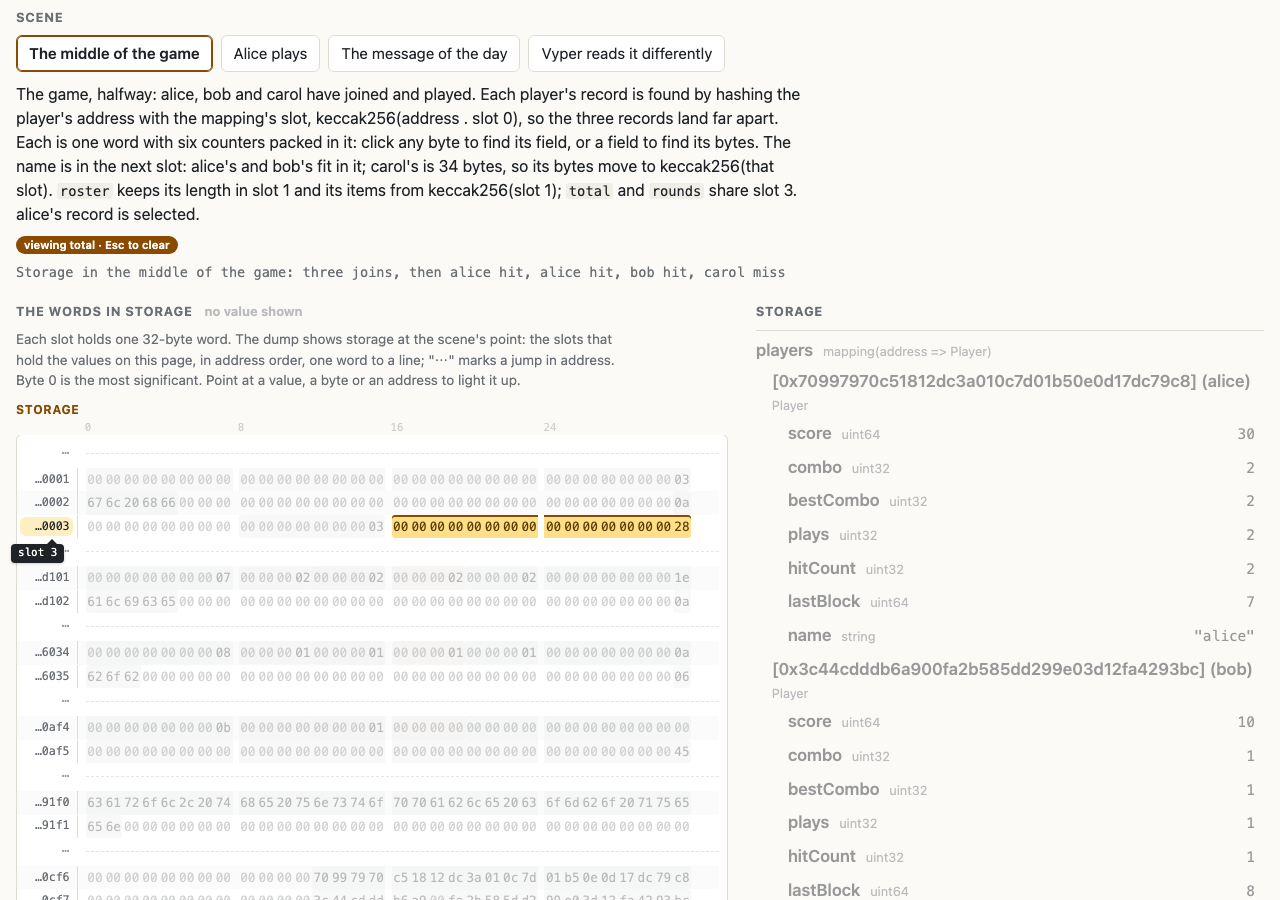
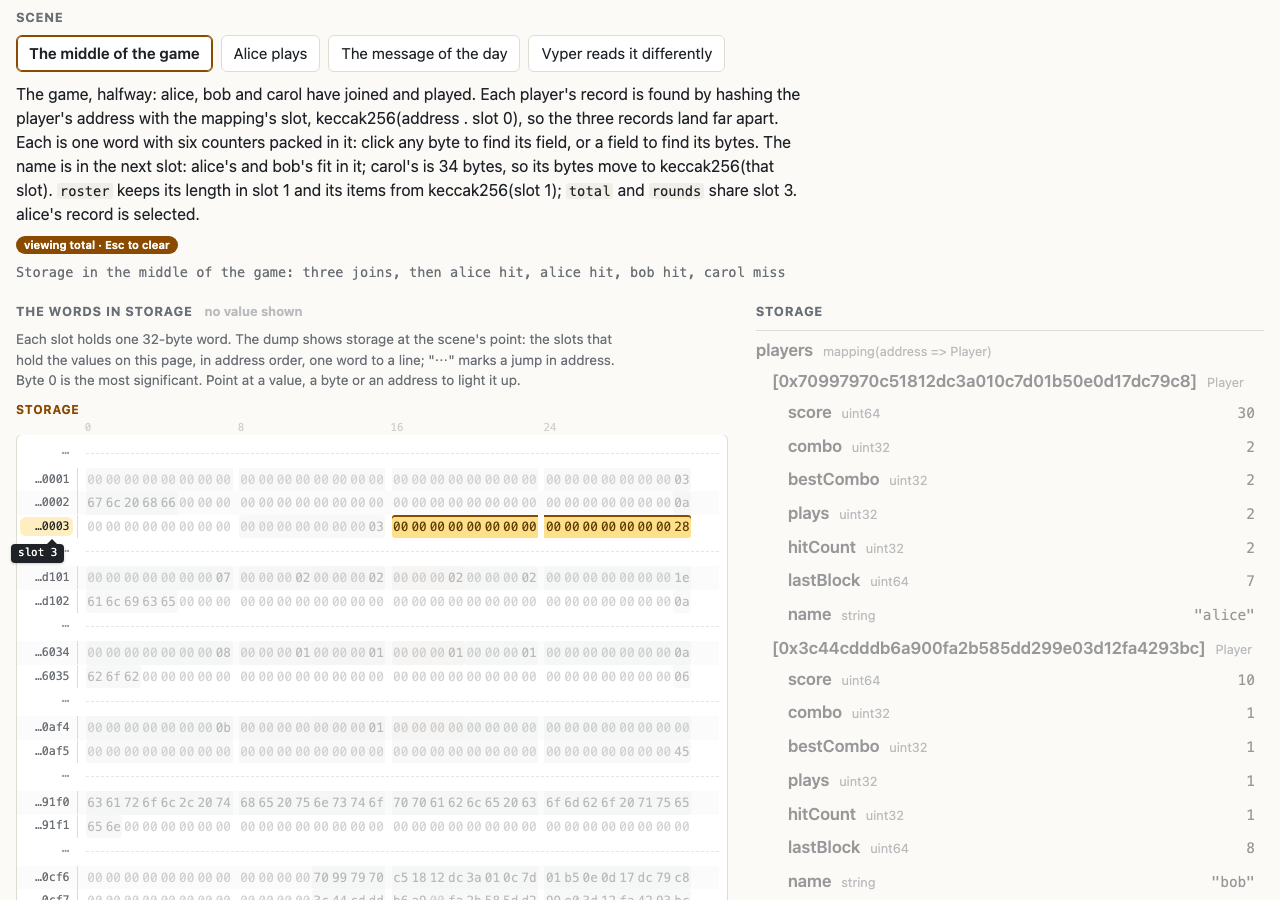
Inspector: a composite's children each in their own colour; keys without name labels

diff --git a/demos/inspector/panel.js b/demos/inspector/panel.js
@@ -495,7 +495,31 @@ export function forRow(m, path) {
   const info = own ? ownerInfo(m, own)
     : [["Value", `${code(shortKeys(path))}, ${below}`]];
   return { bytes: ownerBytes(m, ids, new Set()), rows: new Set(ids.map(
-    (id) => m.owners.get(id).row)), label, info, path };
+    (id) => m.owners.get(id).row)), label, info, path,
+    colors: childColors(m, path, ids) };
+}
+
+// The colours of a composite's immediate children: each child (a
+// mapping's entry, an array's element, a struct's member) gets one of
+// PICKS colours, in tree order, cycling; everything under a child takes
+// its colour. The composite's own bytes (an array's length, a string's
+// length byte) keep the first colour, and then the children start at the
+// second. A leaf has no children: none (one colour, as before).
+// Returns Map(tree path -> colour) or null.
+const PICKS = 7;
+function childColors(m, path, ids) {
+  const child = (row) => row.slice(path.length)
+    .match(/^(\.[^.[]+|\[[^\]]*\])/)?.[0];
+  const rows = ids.map((id) => m.owners.get(id).row);
+  const kids = [...new Set(rows.map(child).filter(Boolean))];
+  if (!kids.length) return null;
+  const start = rows.some((r) => r === path) ? 1 : 0;
+  const colors = new Map();
+  for (const r of rows) {
+    const c = child(r);
+    colors.set(r, c ? (start + kids.indexOf(c)) % PICKS : 0);
+  }
+  return colors;
 }
 
 // A run of bytes in one word, and the same positions in the other view
@@ -761,6 +785,12 @@ export function locked(h, sel) {
   return mine ? { ...sel, label: h.label, info: h.info } : null;
 }
 
+// A lit byte's or row's colour, from a composite's children (pk1 …):
+// the first colour is the plain highlight, with no class
+const pick = (el, k) => {
+  for (let j = 1; j < PICKS; j++) el.classList.toggle(`pk${j}`, k === j);
+};
+
 // Draw a highlight (or none) on the dumps and the tree. `names` names
 // the two sides, as the compare blocks label them.
 export function paint(root, tree, h, opts = {}) {
@@ -777,6 +807,9 @@ export function paint(root, tree, h, opts = {}) {
       const hl = !!h && h.bytes.has(key(side, s, i));
       const isAt = !!at && i >= at.from && i <= at.to;
       c.classList.toggle("hl", hl);
+      pick(c, hl && h.colors && (c.dataset.owners ?? "").split("|")
+        .map((id) => h.colors.get(id.replace(/#length$/, "")))
+        .find((k) => k !== undefined));
       c.classList.toggle("at", isAt);
       on ||= hl || isAt;
     }
@@ -798,8 +831,9 @@ export function paint(root, tree, h, opts = {}) {
   root.classList.toggle("active", !!h);
   tree.classList.toggle("active", !!h);
   for (const r of tree.querySelectorAll("li[data-path]")) {
-    r.firstElementChild.classList.toggle("hl",
-      !!h && h.rows.has(r.dataset.path));
+    const on = !!h && h.rows.has(r.dataset.path);
+    r.firstElementChild.classList.toggle("hl", on);
+    pick(r.firstElementChild, on && h.colors?.get(r.dataset.path));
   }
   const views = [...root.querySelectorAll(".view")].filter((v) => !v.hidden);
   // the other state's picture beside each lit run, in every mode

diff --git a/demos/inspector/style.css b/demos/inspector/style.css
@@ -797,3 +797,50 @@ main[data-single] > .cols :is(.chglegend, .legend .bchg, .intro .two) {
 .srcbox > .src { border: none; border-top: 1px solid var(--line);
   border-radius: 0 0 6px 6px; }
 .calldata { margin-top: 24px; }
+
+/* A composite's children, each in its own colour when it is lit (pk1 …;
+   the first colour is --mark). The same child has the same colour in
+   the tree and the dump; the lit cues (the line over lit bytes, the
+   lit row) stay as they are. */
+:root {
+  --pk1: #b9d8ff; --pk1-fg: #0b3a75;
+  --pk2: #bfe8c4; --pk2-fg: #14532d;
+  --pk3: #ffc7dd; --pk3-fg: #6b1238;
+  --pk4: #d9c8ff; --pk4-fg: #3b1f7a;
+  --pk5: #a8e6e0; --pk5-fg: #0f4f4a;
+  --pk6: #ffcf9e; --pk6-fg: #6a3300;
+}
+@media (prefers-color-scheme: dark) {
+  :root:not([data-theme="light"]) {
+    --pk1: #1f4a80; --pk1-fg: #cfe3ff;
+    --pk2: #1e5a2c; --pk2-fg: #c8f0cf;
+    --pk3: #74224a; --pk3-fg: #ffd3e6;
+    --pk4: #4b3586; --pk4-fg: #e2d6ff;
+    --pk5: #145a55; --pk5-fg: #c4f3ee;
+    --pk6: #7a4310; --pk6-fg: #ffd9b3;
+  }
+}
+:root[data-theme="dark"] {
+  --pk1: #1f4a80; --pk1-fg: #cfe3ff;
+  --pk2: #1e5a2c; --pk2-fg: #c8f0cf;
+  --pk3: #74224a; --pk3-fg: #ffd3e6;
+  --pk4: #4b3586; --pk4-fg: #e2d6ff;
+  --pk5: #145a55; --pk5-fg: #c4f3ee;
+  --pk6: #7a4310; --pk6-fg: #ffd9b3;
+}
+.pk1 { --pk: var(--pk1); --pk-fg: var(--pk1-fg); }
+.pk2 { --pk: var(--pk2); --pk-fg: var(--pk2-fg); }
+.pk3 { --pk: var(--pk3); --pk-fg: var(--pk3-fg); }
+.pk4 { --pk: var(--pk4); --pk-fg: var(--pk4-fg); }
+.pk5 { --pk: var(--pk5); --pk-fg: var(--pk5-fg); }
+.pk6 { --pk: var(--pk6); --pk-fg: var(--pk6-fg); }
+.b.hl:is(.pk1, .pk2, .pk3, .pk4, .pk5, .pk6) {
+  background: var(--pk); color: var(--pk-fg); }
+.row.hl:is(.pk1, .pk2, .pk3, .pk4, .pk5, .pk6) {
+  background: var(--pk); color: var(--pk-fg);
+  box-shadow: -4px 0 0 var(--pk), 4px 0 0 var(--pk); }
+.row.hl.sel:is(.pk1, .pk2, .pk3, .pk4, .pk5, .pk6) {
+  box-shadow: -4px 0 0 var(--pk), 4px 0 0 var(--pk),
+    -7px 0 0 var(--accent); }
+.row.hl:is(.pk1, .pk2, .pk3, .pk4, .pk5, .pk6) :is(.type, .val) {
+  color: inherit; }

diff --git a/demos/inspector/main.js b/demos/inspector/main.js
@@ -103,15 +103,11 @@ function row(node, top) {
       ? `<p class="muted empty">no keys hashed in this transaction</p>`
       : "";
   const cls = current.single ? "" : node.changed ? "chg" : "same";
-  // a player's name, for a mapping key that is one of the players
-  const who = node.key && Object.entries(current.f.players ?? {}).find(
-    ([a]) => node.key.toLowerCase().endsWith(a.slice(2).toLowerCase()))?.[1];
-  const keyNote = who ? ` (${who})` : "";
   return `<li class="${cls}${top ? " top" : ""}"`.replace('class=" ',
     'class="') +
     ` data-path="${esc(node.path)}">` +
     `<div class="row" tabindex="0" role="button" aria-pressed="false">` +
-    `<span class="name">${esc(node.label)}${keyNote}</span>` +
+    `<span class="name">${esc(node.label)}</span>` +
     `<span class="type">${esc(tname)}</span>${val}</div>${kids}</li>`;
 }
 

diff --git a/demos/inspector/README.md b/demos/inspector/README.md
@@ -283,6 +283,14 @@ offsets.
   on a focused row) to select it, changed or not; click it again,
   press Escape, or click empty space to clear it. Clicking a byte
   selects the variable that owns it (a byte no value owns clears).
+- Selecting a composite colours its immediate children apart, the same
+  in the tree and the dump: a mapping's entries, an array's elements, a
+  struct's members (a packed slot then shows its fields as bands).
+  Everything under a child takes its colour; the composite's own bytes
+  (an array's length) keep the first colour, the plain highlight
+  (`--mark`). Seven colours (`--pk1` … `--pk6` after `--mark`, light
+  and dark), cycling. A leaf keeps the one colour. Mapping keys show
+  the key only.
 - While a variable is selected, the view stays on it: hovering other
   bytes, rows or addresses changes nothing. Hovering its own bytes
   only puts byte detail in the details; a chip beside the Before |
